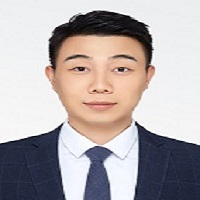
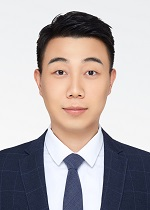
Site updated: 2021-10-27 11:07:32

diff --git a/about/index.html b/about/index.html
@@ -384,7 +384,7 @@
                     <div class="col s12 m12 l4">
                         <div class="profile center-align">
                             <div class="avatar">
-                                <img src="/" alt="stephan"
+                                <img src="/medias/stephan.jpg" alt="stephan"
                                      class="circle responsive-img avatar-img">
                             </div>
                             <div class="author">
